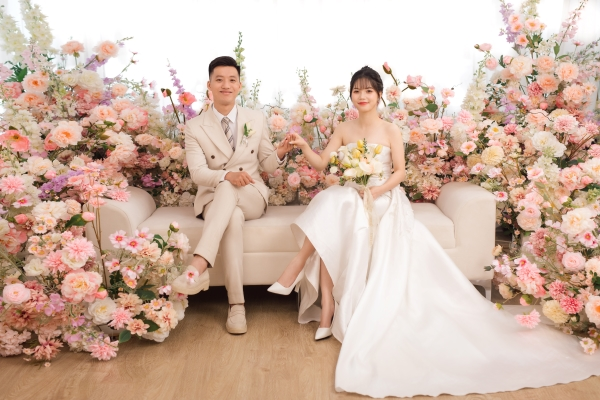
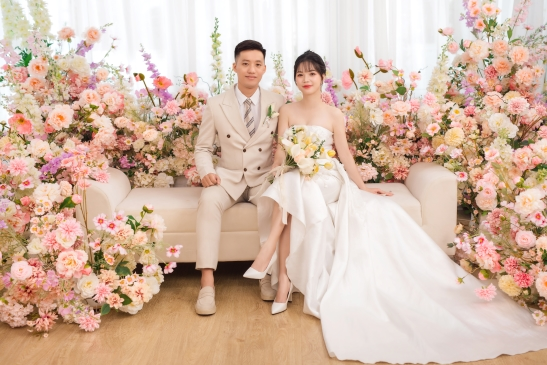
update images

diff --git a/index.html b/index.html
@@ -212,7 +212,11 @@
 
         <!-- start wpo-portfolio-section -->
         <section class="wpo-portfolio-section section-padding" id="gallery">
-            <h2 class="hidden">some</h2>
+            <div class="wpo-section-title">
+                <img src="assets/images/portfolio/logo.svg" alt="">
+                <br>
+                <h2 style="color: tomato;">Bộ Sưu tập ảnh cưới</h2>
+            </div>
             <div class="container-fluid">
                 <div class="row">
                     <div class="col-lg-12">
@@ -255,6 +259,39 @@
                                     <a href="assets/images/portfolio/4.jpg" class="fancybox"
                                         data-fancybox-group="gall-1">
                                         <img src="assets/images/portfolio/4.jpg" alt class="img img-responsive">
+                                        <div class="hover-content">
+                                            <i class="ti-plus"></i>
+                                        </div>
+                                    </a>
+                                </div>
+                            </div>
+                            <div class="grid">
+                                <div class="img-holder">
+                                    <a href="assets/images/portfolio/7.jpg" class="fancybox"
+                                        data-fancybox-group="gall-1">
+                                        <img src="assets/images/portfolio/7.jpg" alt class="img img-responsive">
+                                        <div class="hover-content">
+                                            <i class="ti-plus"></i>
+                                        </div>
+                                    </a>
+                                </div>
+                            </div>
+                            <div class="grid">
+                                <div class="img-holder">
+                                    <a href="assets/images/portfolio/8.jpg" class="fancybox"
+                                        data-fancybox-group="gall-1">
+                                        <img src="assets/images/portfolio/8.jpg" alt class="img img-responsive">
+                                        <div class="hover-content">
+                                            <i class="ti-plus"></i>
+                                        </div>
+                                    </a>
+                                </div>
+                            </div>
+                            <div class="grid">
+                                <div class="img-holder">
+                                    <a href="assets/images/portfolio/9.jpg" class="fancybox"
+                                        data-fancybox-group="gall-1">
+                                        <img src="assets/images/portfolio/9.jpg" alt class="img img-responsive">
                                         <div class="hover-content">
                                             <i class="ti-plus"></i>
                                         </div>
@@ -372,12 +409,10 @@
             </div> <!-- end container -->
         </section>
         <!-- end wpo-event-section -->
-
-        <!-- start of wpo-contact-section -->
-        <section class="wpo-contact-section-s2 section-padding">
-            <div class="container-fluid">
-                <div class="row justify-content-center">
-                    <div class="col col-xl-4 col-lg-6 col-md-6 col-12">
+        <section class="wpo-contact-section-s3 section-padding" id="rsvp">
+            <div class="container">
+                <div class="row align-items-center">
+                    <div class="col col-xl-4 col-lg-6 col-md-12 col-12">
                         <div class="wpo-contact-section-wrapper">
                             <div class="wpo-section-title">
                                 <h2>Bạn sẽ tới tham dự ngày vui chứ?</h2>
@@ -402,9 +437,9 @@
                                     </div>
                                     <div class="submit-area">
                                         <button type="submit" class="theme-btn">Gửi</button>
-                                        <!-- <div id="c-loader">
+                                        <div id="c-loader">
                                             <i class="ti-reload"></i>
-                                        </div> -->
+                                        </div>
                                     </div>
                                 </form>
 
@@ -435,35 +470,11 @@
                             </div>
                         </div>
                     </div>
-                </div>
-            </div>
-            <div class="bottom-bg">
-                <svg viewBox="0 0 1920 634" fill="none" xmlns="http://www.w3.org/2000/svg">
-                    <path class="bg-path"
-                        d="M207 286C162.2 87.6 39 44.6667 -17 48L-91 22L-71 726H13L1977 670L1957 424C1926.6 318.4 1815 392 1763 442C1619.8 570 1503.33 495.333 1463 442C1270.2 162.8 1197.33 325.667 1185 442C1159.4 584.4 1117 537.333 1099 496C953.4 192.8 868.333 328.333 844 434C791.2 649.2 649.333 555.667 585 482C455.4 356.4 380.333 429.667 359 482C315 616.4 273.333 547.333 258 496L207 286Z"
-                        fill="" />
-                    <path class="bg-stroke"
-                        d="M207 266C162.2 67.6 39 24.6667 -17 28L-91 2L-71 706H13L1977 650L1957 404C1926.6 298.4 1815 372 1763 422C1619.8 550 1503.33 475.333 1463 422C1270.2 142.8 1197.33 305.667 1185 422C1159.4 564.4 1117 517.333 1099 476C953.4 172.8 868.333 308.333 844 414C791.2 629.2 649.333 535.667 585 462C455.4 336.4 380.333 409.667 359 462C315 596.4 273.333 527.333 258 476L207 266Z"
-                        stroke="" stroke-width="2" />
-                </svg>
-
-                <div class="shape-1">
-                    <img src="assets/images/rsvp/shape.svg" alt="">
-                </div>
-                <div class="shape-2 wow fadeInUp" data-wow-duration="1000ms">
-                    <img src="assets/images/rsvp/shape2.svg" alt="">
-                </div>
-                <div class="shape-3 wow fadeInUp" data-wow-duration="1200ms">
-                    <img src="assets/images/rsvp/shape3.svg" alt="">
-                </div>
-                <div class="shape-4 wow fadeInUp" data-wow-duration="1400ms">
-                    <img src="assets/images/rsvp/shape4.svg" alt="">
-                </div>
-                <div class="shape-5 wow fadeInUp" data-wow-duration="1600ms">
-                    <img src="assets/images/rsvp/shape5.svg" alt="">
-                </div>
-                <div class="shape-6 wow fadeInUp" data-wow-duration="1800ms">
-                    <img src="assets/images/rsvp/shape6.svg" alt="">
+                    <div class="col col-xl-8 col-lg-6 col-md-12 col-12">
+                        <div class="contact-img wow fadeInRightSlow" data-wow-duration="1700ms">
+                            <img src="assets/images/rsvp/2.jpg" alt="">
+                        </div>
+                    </div>
                 </div>
             </div>
         </section>

diff --git a/assets/sass/style.css b/assets/sass/style.css
@@ -133,7 +133,7 @@ Version:        1.0.0
 /*---------------------------
 	Fonts
 ----------------------------*/
-@import url("https://fonts.googleapis.com/css2?family=Jost:wght@300;400;500;600;700;800;900&family=Sail&display=swap");
+@import url('https://fonts.googleapis.com/css2?family=Great+Vibes&display=swap');
 /* 1.1 Theme Reset Style */
 html {
   font-size: 15px;
@@ -171,7 +171,7 @@ h4,
 h5,
 h6 {
   color: #101010;
-  font-family: "Sail", cursive;
+  font-family: "Great Vibes", cursive;
   font-weight: 400;
 }
 
@@ -697,7 +697,7 @@ a.ui-button:active, .ui-button:active,
 
 .wpo-section-title h2,
 .wpo-section-title-s2 h2 {
-  font-family: Sail;
+  font-family: Great Vibes;
   font-size: 50px;
   font-weight: 400;
   margin: 0;
@@ -1479,7 +1479,7 @@ a.ui-button:active, .ui-button:active,
 }
 
 .blog-sidebar .about-widget a {
-  font-family: "Sail", cursive;
+  font-family: "Great Vibes", cursive;
   font-size: 14px;
   font-size: 0.93333rem;
   color: #101010;
@@ -2282,7 +2282,7 @@ a.ui-button:active, .ui-button:active,
   font-style: normal;
   font-weight: 400;
   line-height: normal;
-  font-family: "Sail", cursive;
+  font-family: "Great Vibes", cursive;
   color: #657150;
 }
 
@@ -3989,7 +3989,7 @@ a.ui-button:active, .ui-button:active,
 .wpo-hero-slider-s3 .wpo-hero-title-top span {
   font-size: 22px;
   color: #e4e4e4;
-  font-family: "Sail", cursive;
+  font-family: "Great Vibes", cursive;
 }
 
 @media (max-width: 767px) {
@@ -4682,7 +4682,7 @@ a.ui-button:active, .ui-button:active,
 .static-hero-s5 .wpo-wedding-date #clock3 .time,
 .static-hero-s10 .wpo-wedding-date #clock .time,
 .static-hero-s10 .wpo-wedding-date #clock3 .time {
-  font-family: "Sail", cursive;
+  font-family: "Great Vibes", cursive;
   font-size: 60px;
   font-size: 4rem;
   line-height: 1em;
@@ -7620,7 +7620,7 @@ a.ui-button:active, .ui-button:active,
   color: #fff;
   margin: 0;
   position: relative;
-  font-family: "Sail", cursive;
+  font-family: "Great Vibes", cursive;
 }
 
 @media (max-width: 991px) {
@@ -7638,7 +7638,7 @@ a.ui-button:active, .ui-button:active,
 .wpo-site-footer .about-widget .logo,
 .wpo-site-footer-s2 .about-widget .logo {
   font-size: 35px;
-  font-family: "Sail", cursive;
+  font-family: "Great Vibes", cursive;
   color: #fff;
   line-height: 40px;
 }
@@ -8055,7 +8055,7 @@ a.ui-button:active, .ui-button:active,
 }
 
 .wpo-couple-section .couple-area .couple-item .couple-text span {
-  font-family: "Sail", cursive;
+  font-family: "Great Vibes", cursive;
   font-weight: 400;
   font-size: 30px;
   color: #BD945A;
@@ -10975,7 +10975,7 @@ a.ui-button:active, .ui-button:active,
 }
 
 .wpo-story-section-s2 .wpo-story-wrap .wpo-story-item .wpo-story-content .thumb span {
-  font-family: "Sail", cursive;
+  font-family: "Great Vibes", cursive;
   font-size: 35px;
   font-style: normal;
   font-weight: 400;
@@ -11624,7 +11624,7 @@ a.ui-button:active, .ui-button:active,
 }
 
 .wpo-hero-wedding-date #clock .time {
-  font-family: "Sail", cursive;
+  font-family: "Great Vibes", cursive;
   font-size: 80px;
   font-size: 5.33333rem;
   line-height: 1em;
@@ -14061,7 +14061,7 @@ a.ui-button:active, .ui-button:active,
 .wpo-wedding-countdown #clock2 .time,
 .wpo-wedding-countdown-s2 #clock .time,
 .wpo-wedding-countdown-s2 #clock2 .time {
-  font-family: "Sail", cursive;
+  font-family: "Great Vibes", cursive;
   font-size: 100px;
   font-size: 6.66667rem;
   line-height: 1em;
@@ -14669,7 +14669,7 @@ a.ui-button:active, .ui-button:active,
   font-style: normal;
   font-weight: 400;
   color: #101010;
-  font-family: "Sail", cursive;
+  font-family: "Great Vibes", cursive;
 }
 
 .wpo-service-section .wpo-service-wrap .wpo-service-item .wpo-service-text a:hover {
@@ -14954,7 +14954,7 @@ a.ui-button:active, .ui-button:active,
   line-height: 80px;
   color: #657150;
   margin: 0 0 0.1em;
-  font-family: "Sail", cursive;
+  font-family: "Great Vibes", cursive;
   display: -webkit-box;
   display: -ms-flexbox;
   display: flex;
@@ -14967,7 +14967,7 @@ a.ui-button:active, .ui-button:active,
 }
 
 .wpo-fun-fact-section .grid h3 span {
-  font-family: "Sail", cursive;
+  font-family: "Great Vibes", cursive;
   line-height: 85px;
 }
 
@@ -15967,7 +15967,7 @@ a.ui-button:active, .ui-button:active,
   font-style: normal;
   font-weight: 400;
   color: #C8A898;
-  font-family: "Sail", cursive;
+  font-family: "Great Vibes", cursive;
 }
 
 .wpo-about-section .wpo-about-wrap .wpo-about-text .about-info,
@@ -17000,7 +17000,7 @@ a.ui-button:active, .ui-button:active,
   font-style: normal;
   font-weight: 400;
   line-height: normal;
-  font-family: "Sail", cursive;
+  font-family: "Great Vibes", cursive;
   color: #fff;
   display: block;
 }
@@ -17387,7 +17387,7 @@ a.ui-button:active, .ui-button:active,
 }
 
 .wpo-invitation-area .wpo-invitation-wrap .wpo-invitation-info #clock .time {
-  font-family: "Sail", cursive;
+  font-family: "Great Vibes", cursive;
   font-size: 60px;
   font-size: 4rem;
   line-height: 1em;
@@ -18444,7 +18444,7 @@ a.ui-button:active, .ui-button:active,
 
 .wpo-category-section .wpo-category-wrap .wpo-category-item .wpo-category-text a {
   text-align: center;
-  font-family: "Sail", cursive;
+  font-family: "Great Vibes", cursive;
   font-size: 30px;
   font-style: normal;
   font-weight: 400;
@@ -19683,7 +19683,7 @@ a.ui-button:active, .ui-button:active,
 
 .wpo-coming-soon-area .coming-soon-section .wpo-wedding-date #clock .time,
 .wpo-coming-soon-area .coming-soon-section .wpo-wedding-date #clock3 .time {
-  font-family: "Sail", cursive;
+  font-family: "Great Vibes", cursive;
   font-size: 60px;
   font-size: 4rem;
   line-height: 1em;
@@ -20959,7 +20959,7 @@ a.ui-button:active, .ui-button:active,
 }
 
 .wpo-shop-single-section .product-info .nav-tabs {
-  font-family: "Sail", cursive;
+  font-family: "Great Vibes", cursive;
   border: 0;
 }
 
@@ -23017,7 +23017,7 @@ a.ui-button:active, .ui-button:active,
 }
 
 .wpo-blog-single-section .comments-area .comment-reply-link {
-  font-family: "Sail", cursive;
+  font-family: "Great Vibes", cursive;
   font-size: 14px;
   font-size: 0.93333rem;
   font-weight: 600;
@@ -23784,7 +23784,7 @@ a.ui-button:active, .ui-button:active,
 }
 
 .preview-section-title h2 {
-  font-family: Sail;
+  font-family: Great Vibes;
   font-size: 50px;
   font-weight: 400;
   margin: 0;
@@ -24132,7 +24132,7 @@ a.ui-button:active, .ui-button:active,
   -webkit-transform: rotate(-45deg);
           transform: rotate(-45deg);
   font-size: 50px;
-  font-family: "Sail", cursive;
+  font-family: "Great Vibes", cursive;
   display: inline-block;
   padding: 10px 30px;
   background: rgba(0, 0, 0, 0.8);
